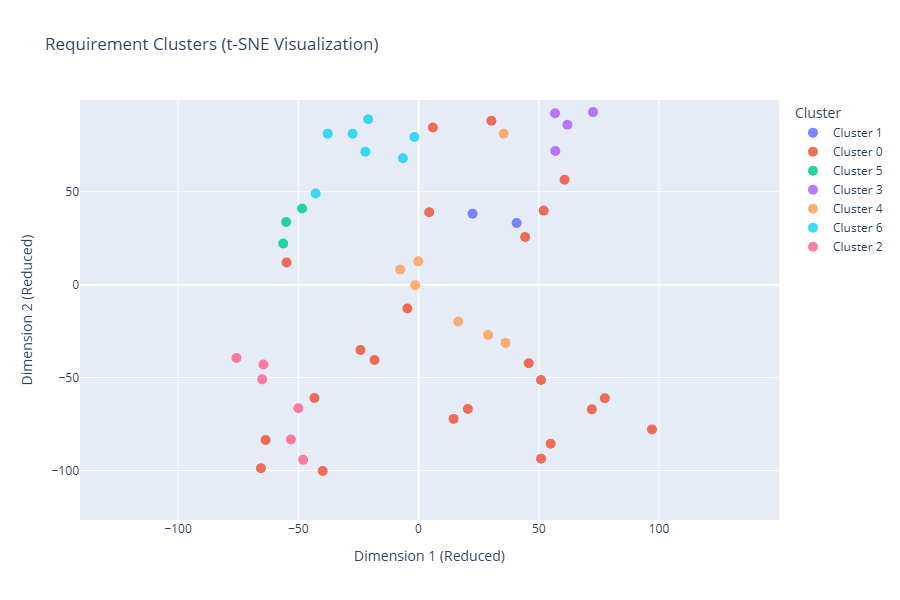
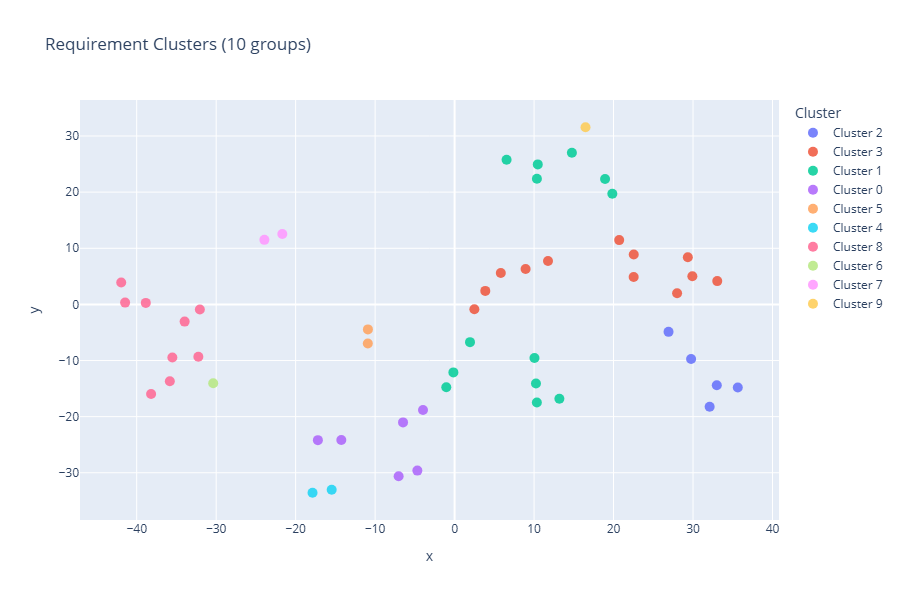
refactor: QoL, comments, smarter functionality

diff --git a/app/fr_clustering.py b/app/fr_clustering.py
@@ -4,7 +4,7 @@ Functional Requirements Clustering Pipeline
 This script:
 1. Loads functional requirements (FRs) from a file (JSON or plain text).
 2. Embeds them using SentenceTransformer.
-3. Clusters embeddings using HDBSCAN.
+3. Clusters embeddings using Agglomerative Clustering with cosine distance.
 4. Stores results in a Qdrant vector database.
 5. Generates a 2D visualization (UMAP or t-SNE).
 6. Serves results via a built-in HTTP server with JSON/HTML endpoints.
@@ -19,7 +19,6 @@ Environment variables:
 
 import os
 import json
-import hdbscan
 import numpy as np
 import plotly.express as px
 import pandas as pd
@@ -36,9 +35,6 @@ from qdrant_client.models import (
     PointStruct,
     VectorParams,
     Distance,
-    Filter,
-    FieldCondition,
-    MatchValue,
 )
 from http.server import HTTPServer, SimpleHTTPRequestHandler
 from urllib.parse import urlparse, parse_qs
@@ -192,21 +188,37 @@ def run_clustering_pipeline(
     frs: list[str] | None = None,
     projection: str = 'umap',
     perplexity: float = 30.0,
-    cluster_distance: float = 0.32
+    cluster_distance: float = 0.65,
+    embedding_model: str = 'all-MiniLM-L6-v2'
 ) -> None:
     """
-    Execute the full clustering pipeline using Agglomerative Clustering in embedding space.
+    Execute the full clustering pipeline:
+        1. Embed requirements using SentenceTransformer.
+        2. Cluster embeddings using Agglomerative Clustering with cosine distance.
+        3. Store results in Qdrant.
+        4. Generate 2D visualization (UMAP or t-SNE).
+        5. Save interactive HTML plot and cluster summary JSON.
+
+    Note: Agglomerative Clustering does not produce noise points — all requirements are assigned to a cluster.
+
+    Args:
+        frs: Requirements to process. If None, uses global FUNCTIONAL_REQUIREMENTS.
+        projection: Dimensionality reduction method ('umap' or 'tsne').
+        perplexity: t-SNE perplexity (only used if projection='tsne').
+        cluster_distance: Distance threshold for clustering in cosine embedding space.
+                         Lower → more clusters; higher → fewer clusters.
+        embedding_model: SentenceTransformer model for embeddings.
     """
     logger.info("🚀 Starting FR Clustering Pipeline...")
 
-    warnings.filterwarnings("ignore", category=FutureWarning)
-    warnings.filterwarnings("ignore", category=DeprecationWarning)
+    # Only suppress known Qdrant/SentenceTransformer warnings if needed
+    warnings.filterwarnings("ignore", category=FutureWarning, message=".*force_all_finite.*")
 
     frs_list = frs if frs is not None else FUNCTIONAL_REQUIREMENTS
 
-    # Step 1: Generate embeddings (use a stronger model if desired)
+    # Step 1: Generate embeddings
     logger.info("Embedding functional requirements using SentenceTransformer...")
-    model = SentenceTransformer('all-MiniLM-L6-v2') # all-mpnet-base-v2
+    model = SentenceTransformer(embedding_model)
     vectors = model.encode(frs_list, normalize_embeddings=True).astype(np.float32)
 
     # Step 2: Cluster in FULL 384D SPACE using COSINE DISTANCE
@@ -226,7 +238,7 @@ def run_clustering_pipeline(
     cluster_labels = clusterer.fit_predict(cosine_distances)
 
     n_clusters = len(np.unique(cluster_labels))
-    logger.info(f"Formed {n_clusters} clusters. No noise points.")
+    logger.info(f"Formed {n_clusters} clusters.")
 
     # Step 3: Generate 2D projection JUST FOR VISUALIZATION
     logger.info(f"Generating 2D projection using {projection.upper()}...")
@@ -278,7 +290,7 @@ def run_clustering_pipeline(
     client.upsert(collection_name=collection_name, points=points)
 
     # Step 5: Create visualization DataFrame
-    plot_labels = [f"Cluster {label}" for label in cluster_labels]  # no noise!
+    plot_labels = [f"Cluster {label}" for label in cluster_labels]
 
     df = pd.DataFrame({
         "x": embeddings_2d[:, 0],
@@ -293,7 +305,7 @@ def run_clustering_pipeline(
         y="y",
         color="cluster_name",
         hover_data=["text"],
-        title=f"Requirement Clusters ({n_clusters} groups)",
+        title=f"Requirement Clusters ({n_clusters} groups, Agglomerative Clustering)",
         color_discrete_sequence=px.colors.qualitative.Plotly,
         width=900,
         height=600
@@ -343,6 +355,13 @@ if __name__ == "__main__":
         help='Print loaded functional requirements and exit.'
     )
     parser.add_argument(
+        '--embedding-model',
+        type=str,
+        default='all-MiniLM-L6-v2',
+        choices=['all-MiniLM-L6-v2', 'all-mpnet-base-v2'],
+        help='SentenceTransformer model for embeddings (default: all-MiniLM-L6-v2).'
+    )
+    parser.add_argument(
         '--fr-file',
         type=str,
         help='Path to functional requirements file (overrides FR_FILE env var).'
@@ -350,8 +369,8 @@ if __name__ == "__main__":
     parser.add_argument(
         '--projection',
         choices=['umap', 'tsne'],
-        default='tsne',
-        help='2D projection method for visualization (default: tsne).'
+        default='umap',
+        help='2D projection method for visualization.'
     )
     parser.add_argument(
         '--perplexity',
@@ -363,9 +382,9 @@ if __name__ == "__main__":
         '--cluster-distance',
         type=float,
         default=0.65,
-        help='Distance threshold for Agglomerative Clustering in UMAP space. '
-            'Lower values create more clusters, higher values merge clusters. '
-            'Default: 0.65'
+        help='Distance threshold for Agglomerative Clustering in cosine embedding space. '
+             'Lower values create more clusters, higher values merge clusters. '
+             'Default: 0.65'
     )
     args = parser.parse_args()
 
@@ -388,7 +407,8 @@ if __name__ == "__main__":
     run_clustering_pipeline(
         projection=args.projection,
         perplexity=args.perplexity,
-        cluster_distance=args.cluster_distance
+        cluster_distance=args.cluster_distance,
+        embedding_model=args.embedding_model
     )
 
     # Start HTTP server in background thread

diff --git a/README.md b/README.md
@@ -19,7 +19,7 @@ The pipeline automates:
 
 - **Flexible input**: Load functional requirements from `.txt` or `.json` files
 - **Modern embeddings**: Uses `all-MiniLM-L6-v2` (384-dim sentence transformers) for semantic representation
-- **Smart clustering**: HDBSCAN automatically detects cluster count and handles noise
+- **Controllable clustering**: Agglomerative Clustering with cosine distance; cluster granularity tuned via --cluster-distance
 - **Semantic search**: Store vectors and metadata in Qdrant for fast querying and filtering
 - **Interactive visualization**: 2D scatter plots with hover details using Plotly
 - **HTTP API**:
@@ -73,8 +73,8 @@ http://localhost:8000/embeddings?limit=5
 ### Cluster Quality
 
 - Trust `clusters.json` over the 2D plot: Clustering happens in 384D; the plot is a visualization aid
-- Large "catch-all" clusters often contain cross-cutting concerns (e.g., reporting, system replacement)
 - Small, tight clusters indicate specialized subdomains (e.g., SMS parsing, blueprint ordering)
+- Larger, more diverse clusters, ...
 
 ### Architectural Mapping
 
@@ -106,20 +106,22 @@ CLI arguments can be used by modifying the `docker-compose.yml` `app` service. U
 ```bash
 python fr_clustering.py --help
 
-- --print-fr                   : Print loaded requirements and exit
-- --fr-file       PATH         : Override requirements file path
-- --projection    [umap|tsne]  : Choose 2D projection method (default: tsne)
-- --perplexity    FLOAT        : t-SNE perplexity (default: 30.0)
+- --print-fr                       : Print loaded requirements and exit
+- --fr-file           PATH         : Override requirements file path
+- --projection        [umap|tsne]  : Choose 2D projection method (default: umap)
+- --perplexity        FLOAT        : t-SNE perplexity (default: 30.0)
+- --cluster-distance  FLOAT        : Cosine distance threshold for clustering (default: 0.32)
+- --embedding-model   [all-MiniLM-L6-v2|all-mpnet-base-v2] : Choose SentenceTransformer model for embeddings (default: all-MiniLM-L6-v2)
 ```
 
 Usage in ``docker-compose.yaml``:
 
 ```yaml
 # command: overrides the default CMD in the Dockerfile, allowing you to specify CLI arguments.
-command: python fr_clustering.py --projection tsne --perplexity 5
+command: python fr_clustering.py --projection tsne --perplexity 5 --cluster-distance 0.2
 ```
 
->💡 Tip for small datasets (< 50 items): Use `--projection tsne --perplexity 5` for clearer local structure. 
+>💡 Tip for small datasets (< 30 items): Use `--projection tsne --perplexity 5 --cluster-distance 0.2` for finer-grained clusters. 
 
 ## ⚙ Configuration
 
